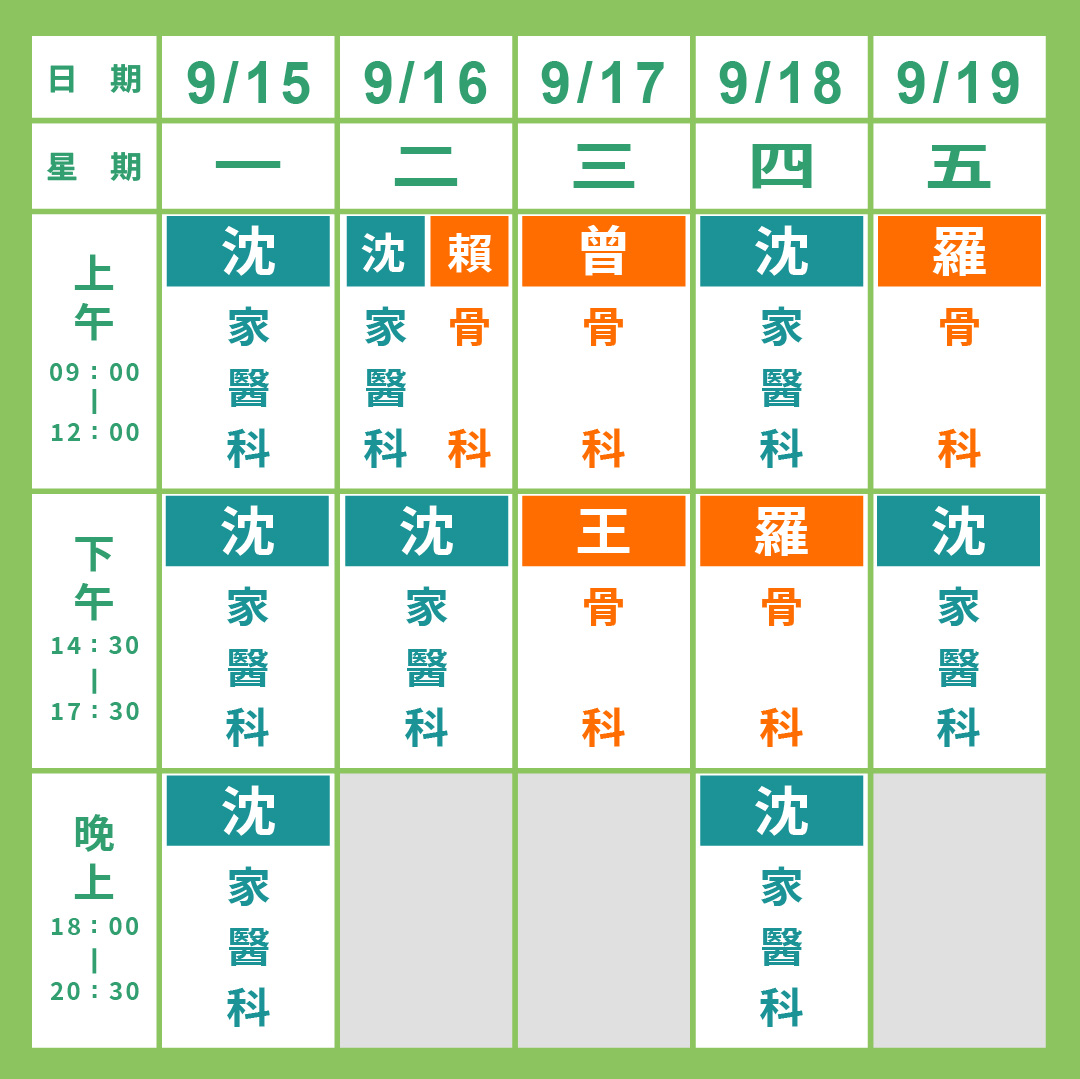
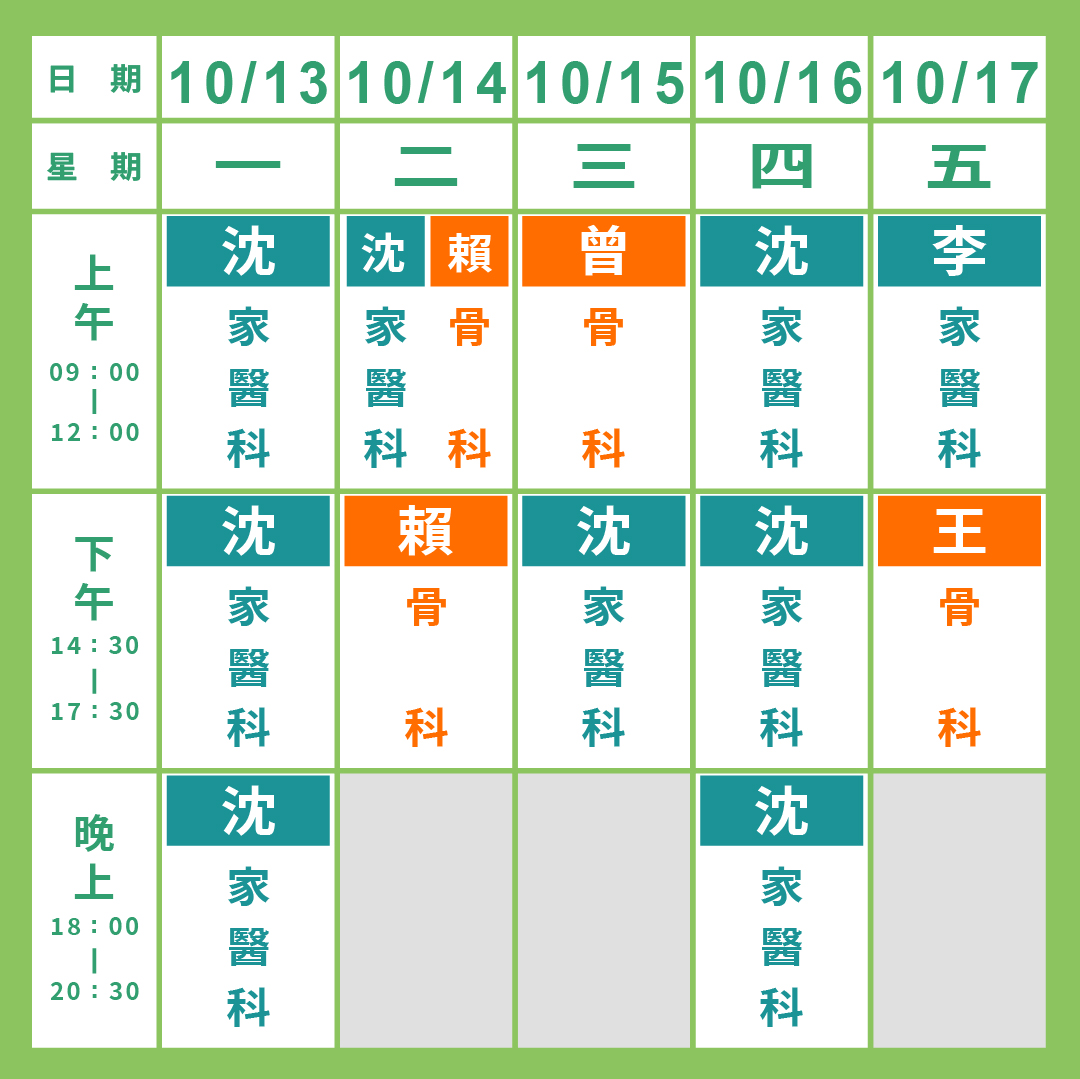
10月門診表上傳

diff --git a/index.html b/index.html
@@ -163,7 +163,7 @@ j=d.createElement(s),dl=l!='dataLayer'?'&l='+l:'';j.async=true;j.src=
     <!-- 門診時間表 -->
     <section id="weekfrom">
       <div class="container item allageweek">
-        <h2 class="text-center mb-3 fade-in">本週門診表 <br><span id="weekRange">8/4～8/8</span></h2>
+        <h2 class="text-center mb-3 fade-in">本週門診表</h2>
         <p class="txttxt mb-3" >〈週三時間為14:00-17:00〉</p> 
         <p class="txttxt mb-3" >※醫師排班若有異動，以 FB 最新公告為主。</p>                                                           
         <div class="row">
